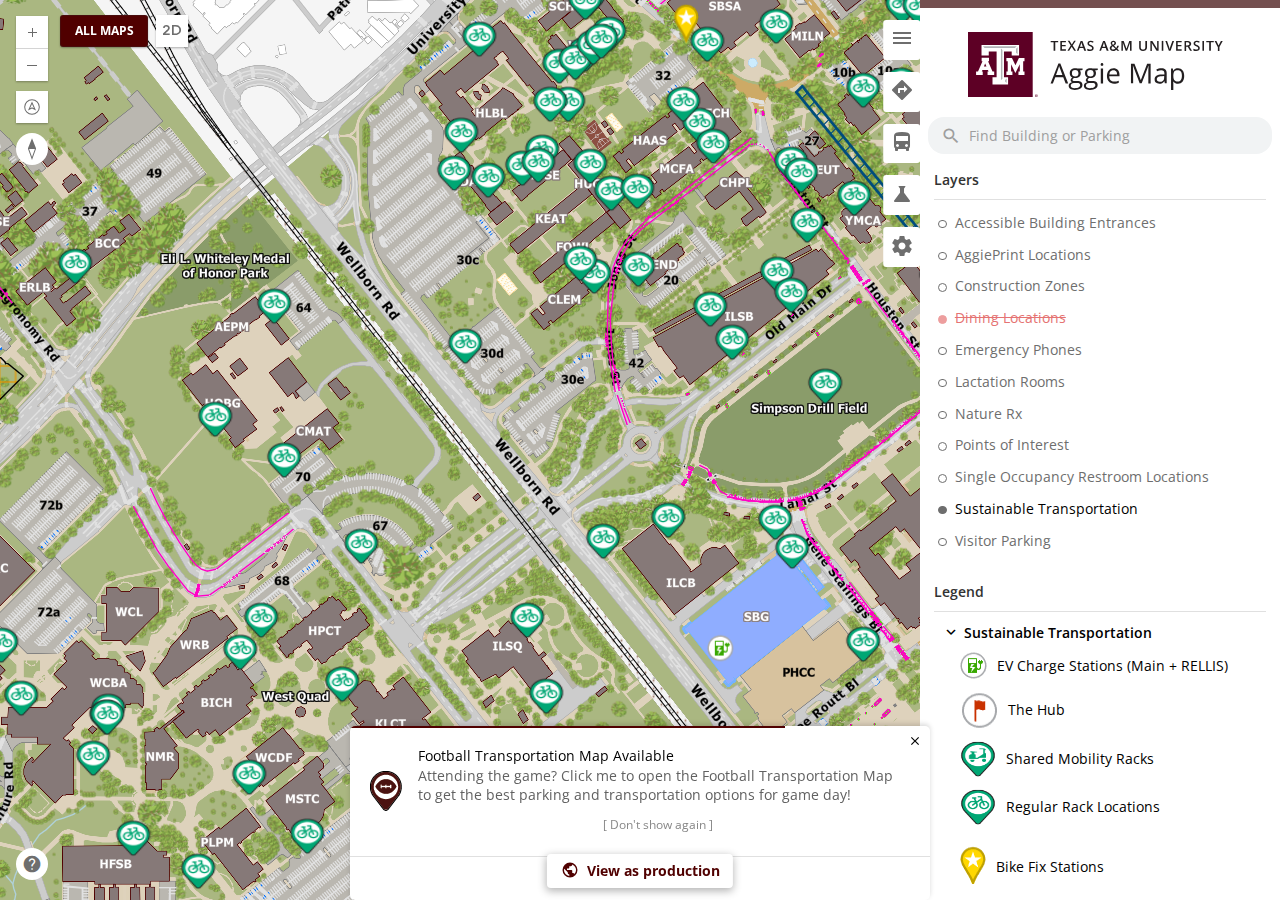
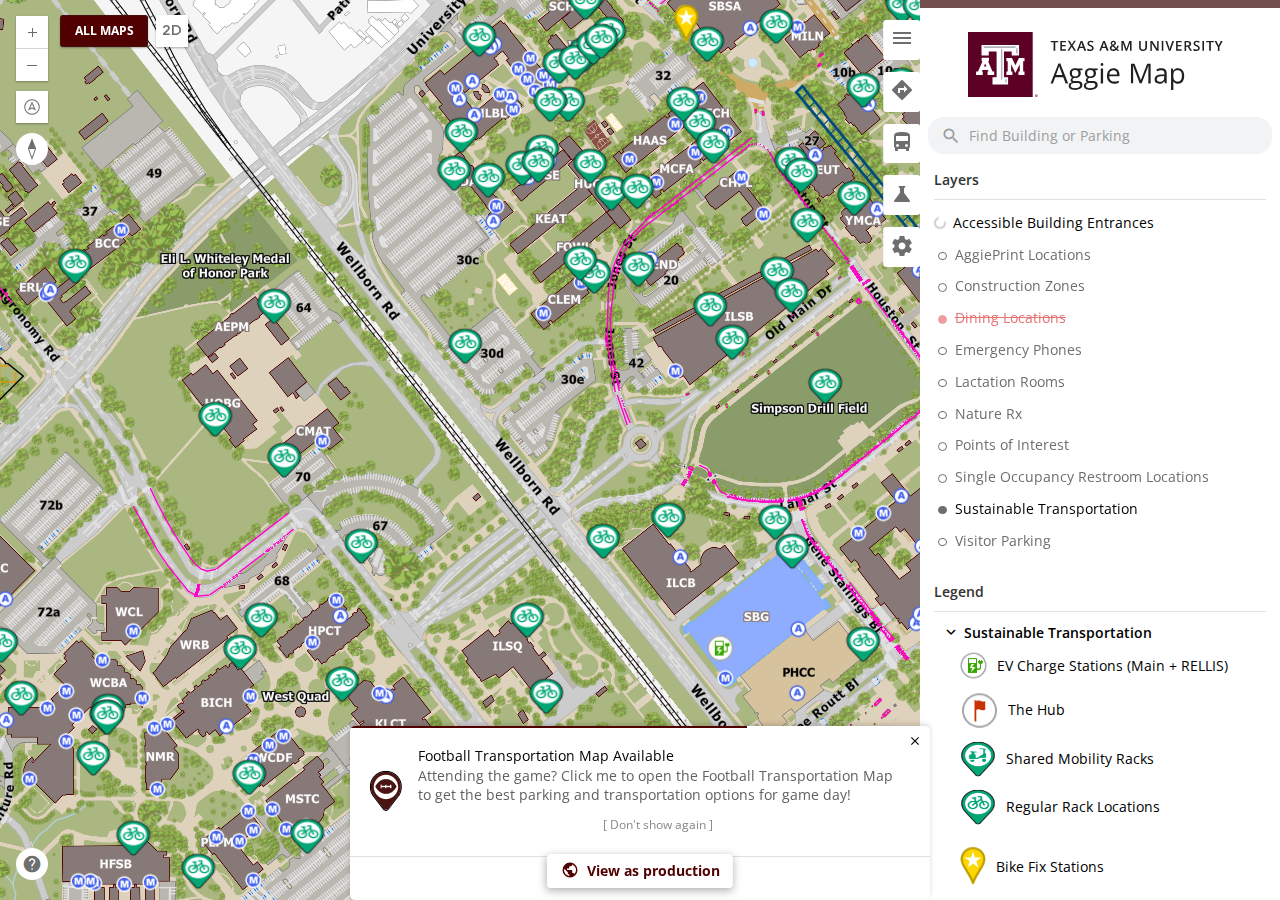
fix(maps-esri): Keep a layer source's readFromProduction on the layer it builds
Esri's layer constructors drop properties they do not know, so the Layers list
never saw the marker. Set it after construction, as listHeading is.

diff --git a/libs/maps/esri/src/lib/services/map/map.service.ts b/libs/maps/esri/src/lib/services/map/map.service.ts
@@ -341,6 +341,20 @@ export class EsriMapService {
   }
 
   public async generateLayer(source: LayerSource | AutocastableLayer): Promise<esri.Layer | Array<esri.Layer>> {
+    const layer = await this.createLayer(source);
+
+    // `readFromProduction` is not an esri property, so the constructors drop it; set it on the layer afterwards for the
+    // layer list to read, as `listHeading` is (#2744).
+    const readFromProduction = (source as LayerSource).readFromProduction;
+
+    if (readFromProduction && !Array.isArray(layer)) {
+      layer['readFromProduction'] = readFromProduction;
+    }
+
+    return layer;
+  }
+
+  private async createLayer(source: LayerSource | AutocastableLayer): Promise<esri.Layer | Array<esri.Layer>> {
     // Object with merged root level properties, native properties, and persistent properties.
     let props;
 
